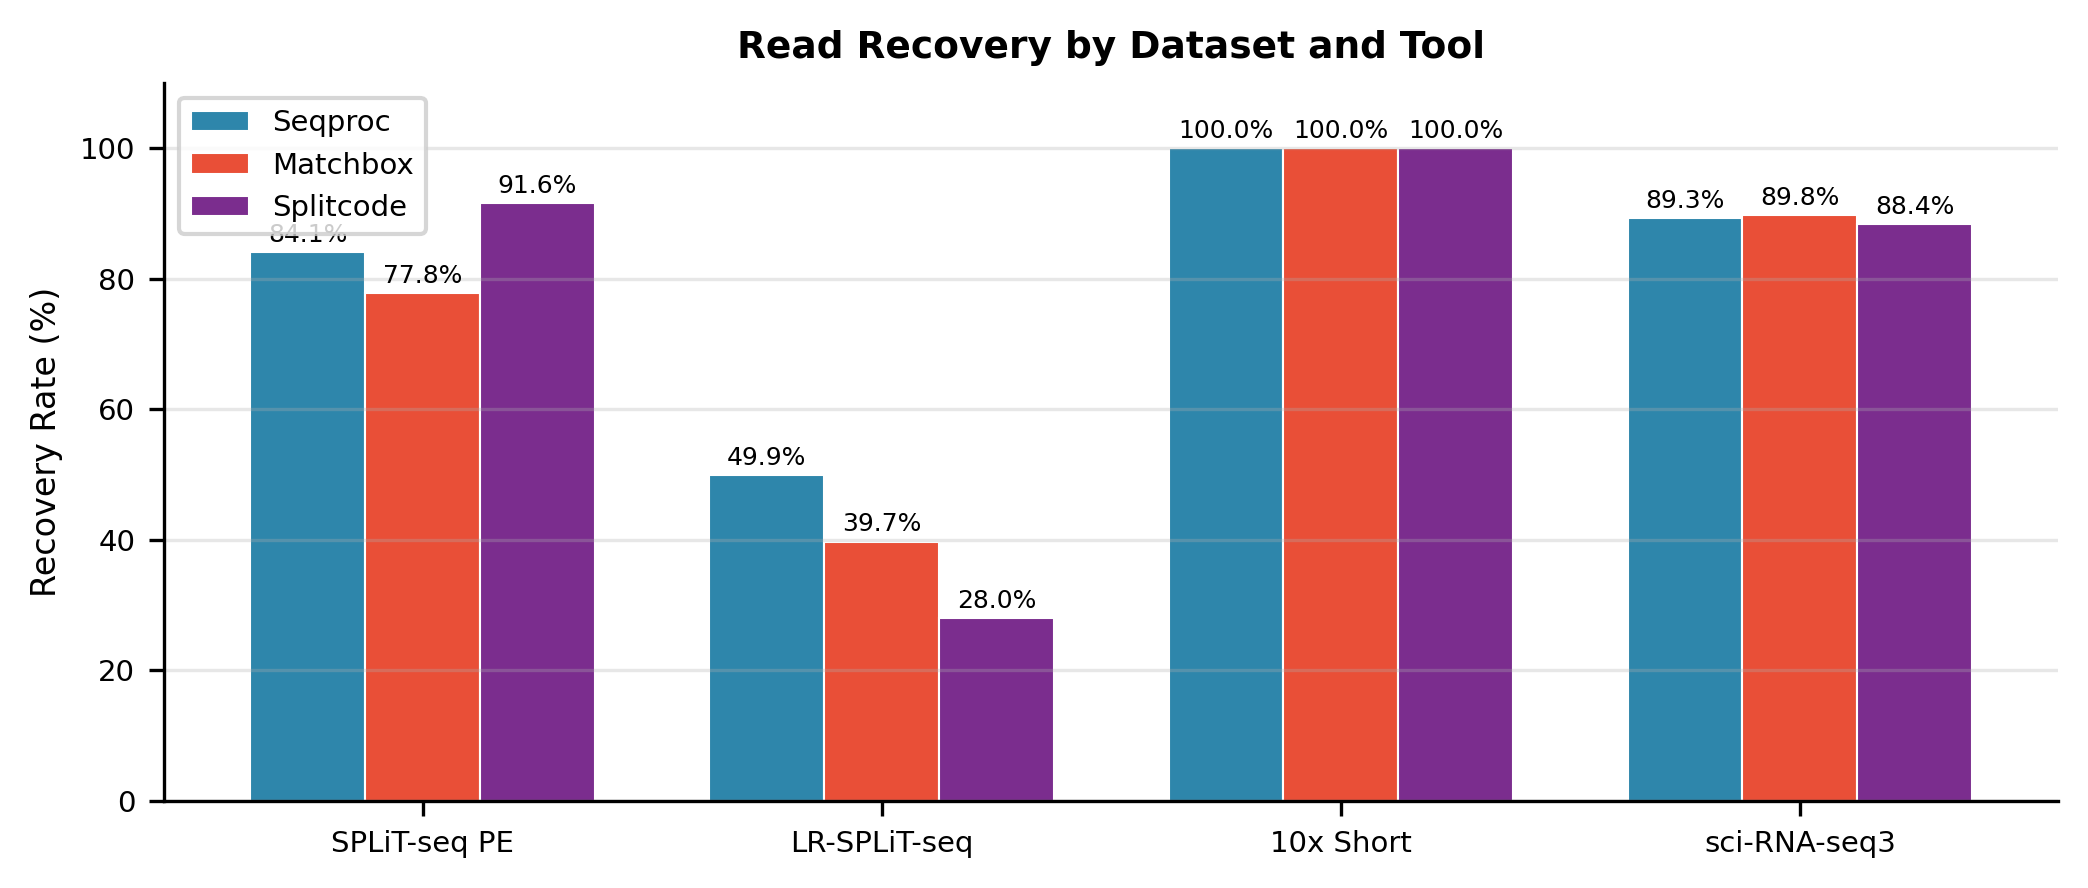
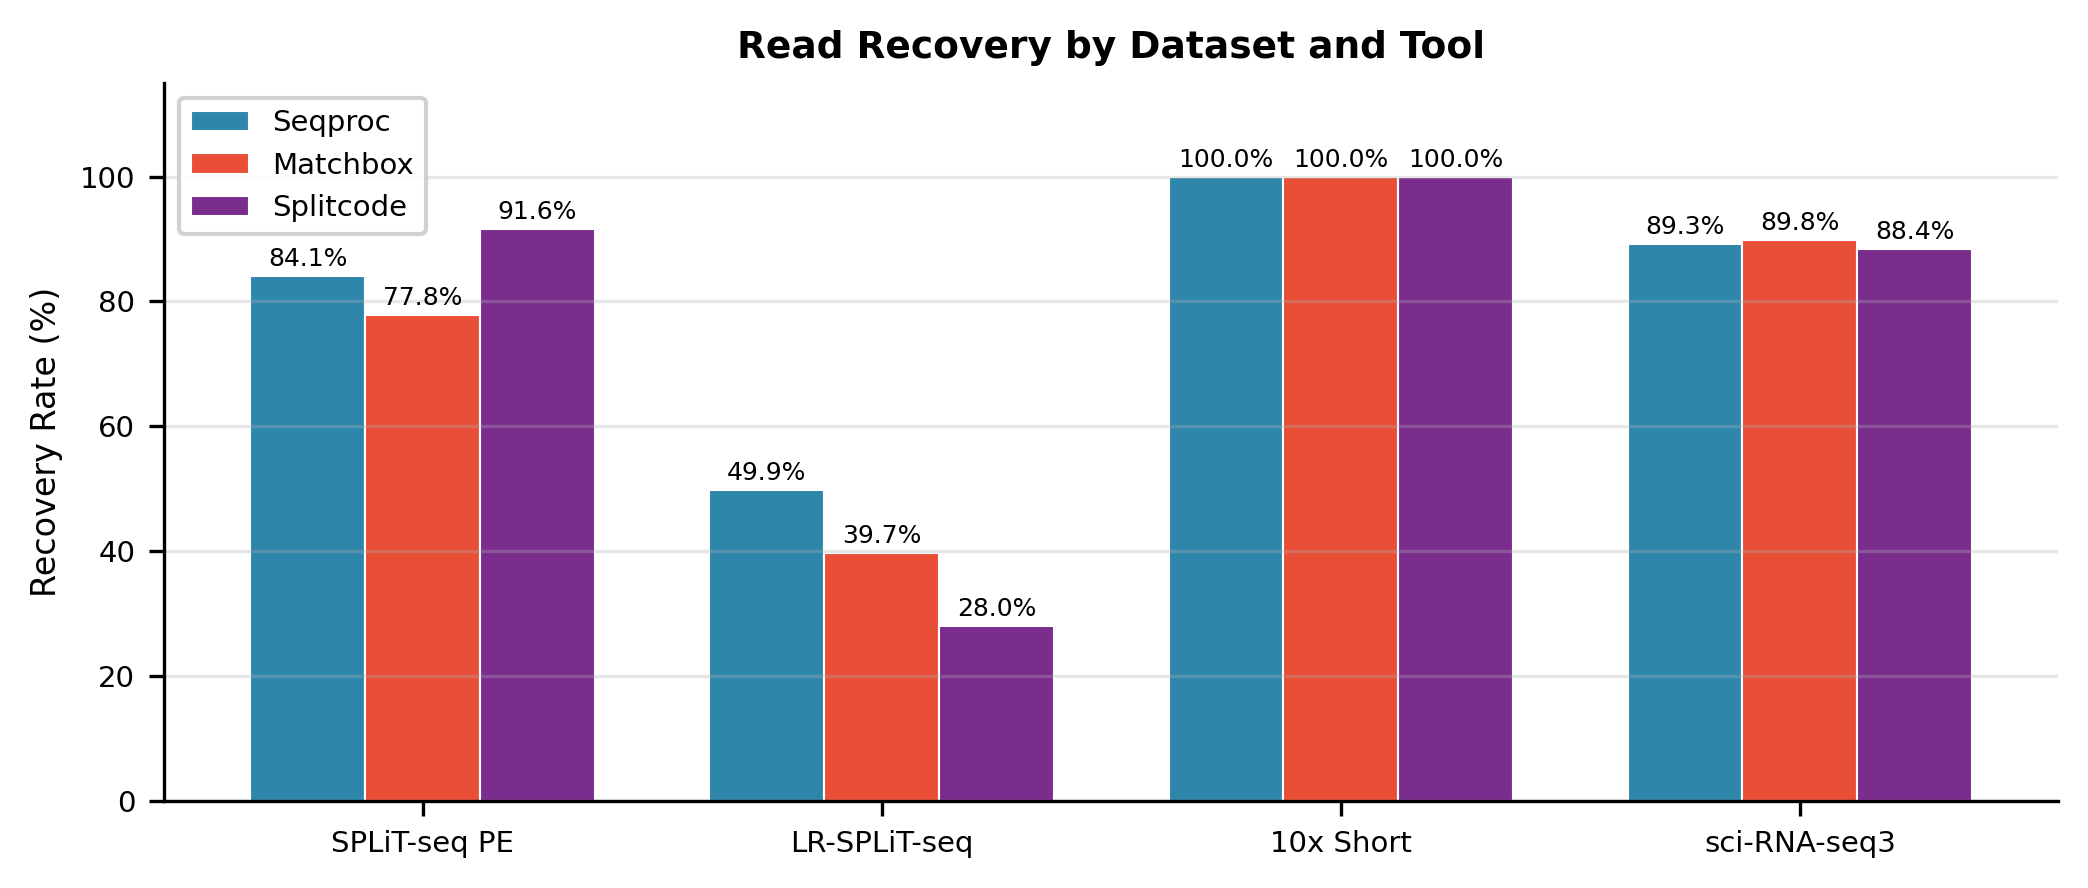
Fix figure readability and regenerate all figures
- Concordance heatmaps: increased figure size (7x1.8 -> 9x2.5) and
  font sizes (7->8 for cells, 8 for labels, 10 for titles) so text
  is no longer squished
- Recovery comparison: moved legend to upper-left with bbox_to_anchor
  to prevent overlap with SPLiT-seq PE seqproc bar; increased ylim
  to 115 for headroom
- All 5 figures regenerated from current benchmark data

diff --git a/scripts/generate_figures.py b/scripts/generate_figures.py
@@ -107,7 +107,7 @@ def fig_concordance_heatmaps(concordance, output_dir):
         return
 
     n = len(datasets)
-    fig, axes = plt.subplots(1, n, figsize=(7.0, 1.8), squeeze=False)
+    fig, axes = plt.subplots(1, n, figsize=(9.0, 2.5), squeeze=False)
 
     for idx, ds_key in enumerate(datasets):
         ax = axes[0][idx]
@@ -134,15 +134,15 @@ def fig_concordance_heatmaps(concordance, output_dir):
                 val = matrix[i][j]
                 color = 'white' if val < 0.5 else 'black'
                 ax.text(j, i, f'{val:.3f}', ha='center', va='center',
-                        fontsize=7, fontweight='bold', color=color)
+                        fontsize=8, fontweight='bold', color=color)
 
         ax.set_xticks(range(3))
         ax.set_yticks(range(3))
-        ax.set_xticklabels([t.capitalize() for t in tools])
-        ax.set_yticklabels([t.capitalize() for t in tools])
-        ax.set_title(DS_LABELS.get(ds_key, ds_key), fontweight='bold')
+        ax.set_xticklabels([t.capitalize() for t in tools], fontsize=8)
+        ax.set_yticklabels([t.capitalize() for t in tools], fontsize=8)
+        ax.set_title(DS_LABELS.get(ds_key, ds_key), fontsize=10, fontweight='bold')
 
-    fig.suptitle('Pairwise Concordance (Jaccard Index)', fontsize=10, fontweight='bold', y=1.02)
+    fig.suptitle('Pairwise Concordance (Jaccard Index)', fontsize=11, fontweight='bold', y=1.02)
     plt.tight_layout()
     plt.savefig(output_dir / 'fig_concordance_heatmaps.pdf', bbox_inches='tight')
     plt.savefig(output_dir / 'fig_concordance_heatmaps.png', dpi=300, bbox_inches='tight')
@@ -178,8 +178,8 @@ def fig_recovery_comparison(concordance, output_dir):
     ax.set_title('Read Recovery by Dataset and Tool', fontweight='bold')
     ax.set_xticks(x + width)
     ax.set_xticklabels([DS_LABELS.get(k, k) for k in datasets])
-    ax.legend()
-    ax.set_ylim(0, 110)
+    ax.legend(loc='upper left', bbox_to_anchor=(0.0, 1.0), framealpha=0.9)
+    ax.set_ylim(0, 115)
     ax.grid(axis='y', alpha=0.3)
     ax.spines['top'].set_visible(False)
     ax.spines['right'].set_visible(False)
